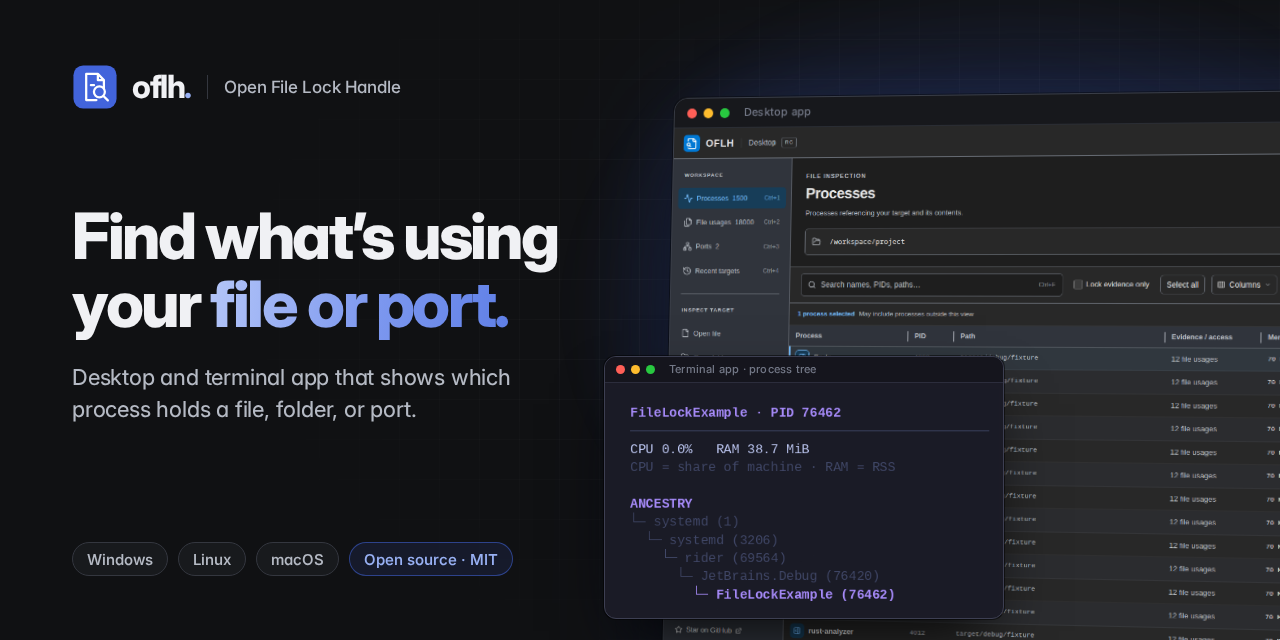
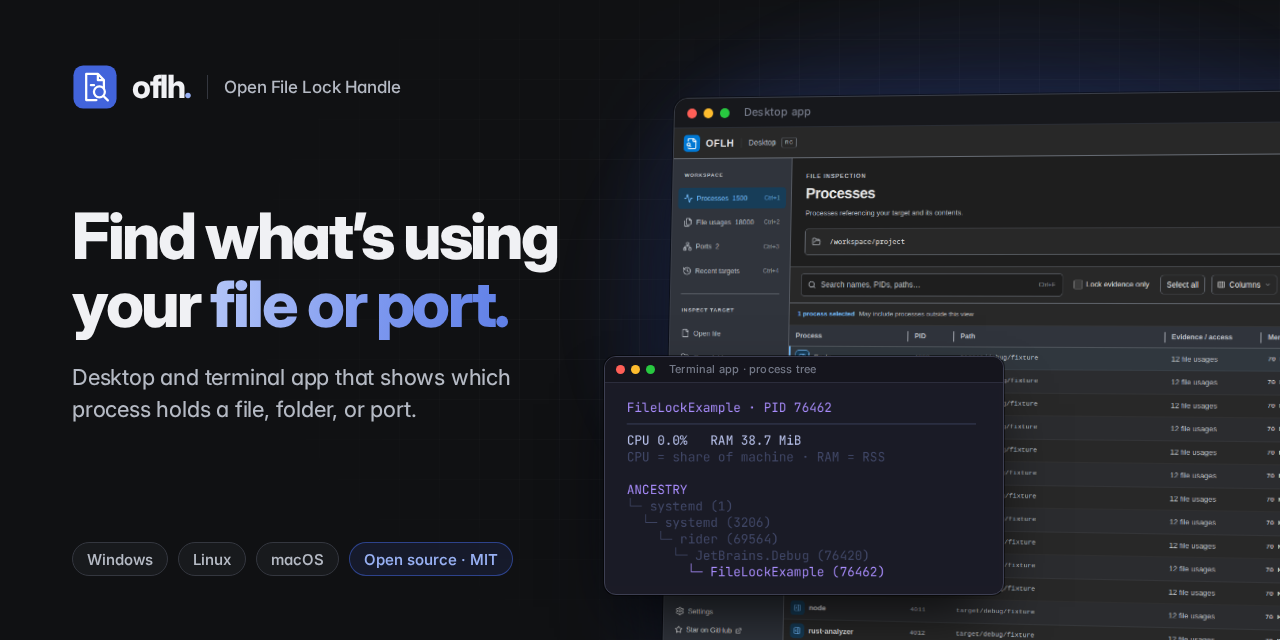
Use a sharp asciinema frame for the social preview terminal panel
Re-rendered .github/social-preview.png with the terminal panel taken from the asciinema recording instead of a blurry GIF frame. Only the finished images are committed.

diff --git a/.github/social-preview/README.md b/.github/social-preview/README.md
@@ -8,7 +8,7 @@ Settings → General → Social preview.
 | --- | --- |
 | `template.html` | The card. Colours match the site (`#101113`, `#4264db`, `#98b0f3`). |
 | `Inter-subset.woff2` | Inter, Latin subset (SIL OFL 1.1). Keeps the letters identical everywhere. |
-| `terminal-ancestry.png` | Process tree, cut from frame 20 of `images/demo.gif`. |
+| `terminal-ancestry.png` | Process details panel from the [asciinema recording](https://asciinema.org/a/1266562). |
 | `render.cjs` | Playwright script. Writes `../social-preview.png`. |
 
 The desktop shot and app icon come from `images/desktop.png` and
